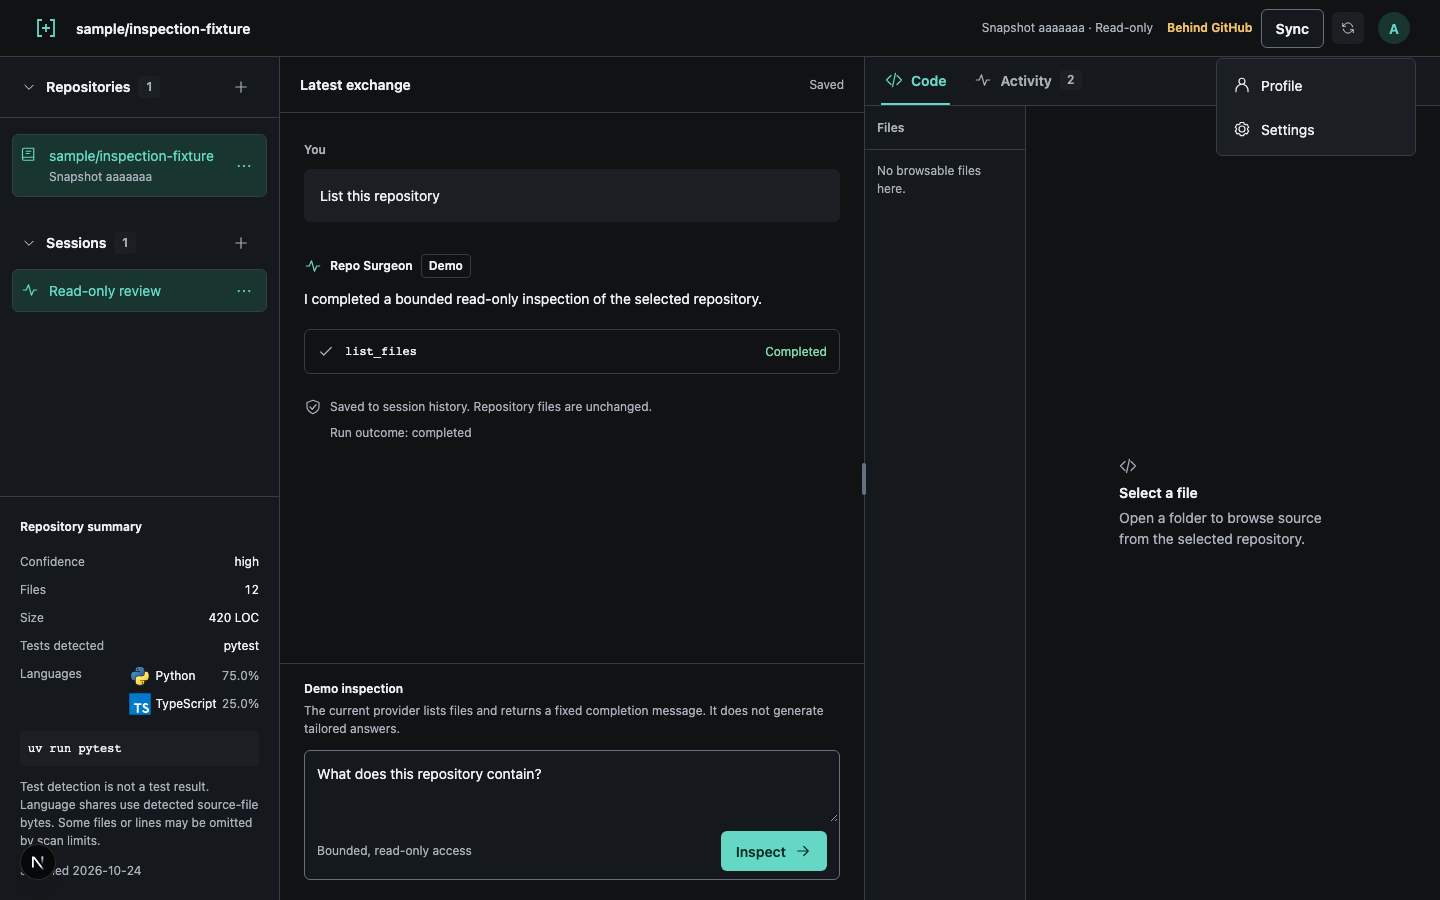
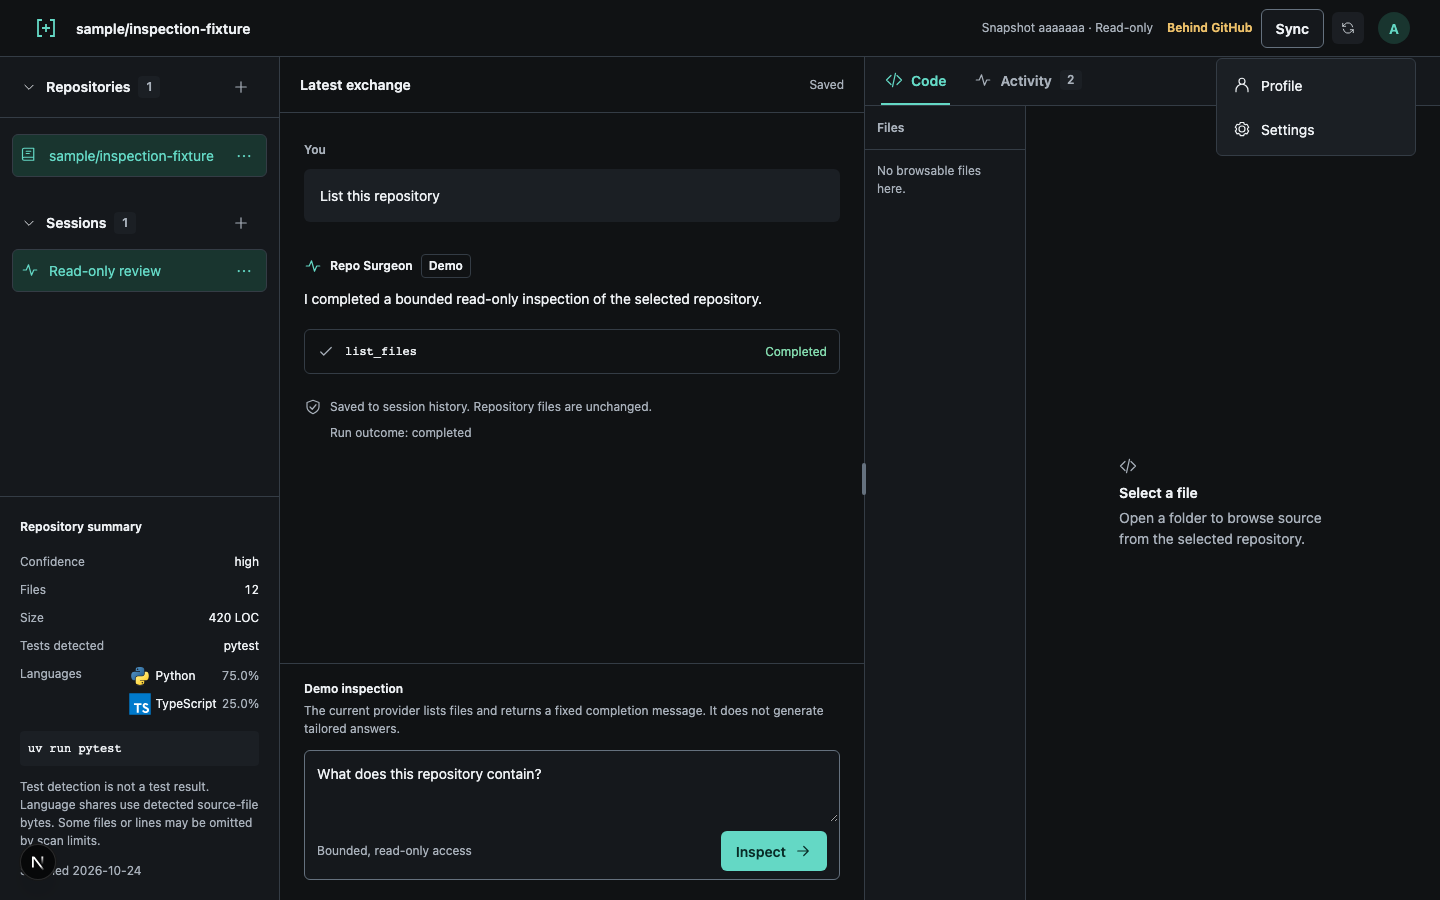
Simplify repository and session rows

Changed region(s): [[0.0, 0.1867, 0.1875, 0.3733]]

diff --git a/frontend/e2e/workspace.spec.ts b/frontend/e2e/workspace.spec.ts
@@ -608,15 +608,13 @@ test('public import selects its snapshot, recovers after failure and survives re
   await capture(page, testInfo, 'public-import-retry');
   await dialog.getByRole('button', { name: 'Import pallets/flask' }).click();
   await expect(dialog).toHaveCount(0);
-  await expect(
-    page.getByRole('button', { name: /pallets\/flask Snapshot aaaaaaa/ }),
-  ).toHaveAttribute('aria-pressed', 'true');
+  const importedRow = page.getByRole('button', { name: imported.name, exact: true });
+  await expect(importedRow).toHaveAttribute('aria-pressed', 'true');
+  await expect(page.getByText('Snapshot aaaaaaa · Read-only')).toBeVisible();
   await expect(page.getByRole('button', { name: 'Start read-only session' })).toBeEnabled();
   await capture(page, testInfo, 'public-import-selected');
   await page.reload();
-  await expect(
-    page.getByRole('button', { name: /pallets\/flask Snapshot aaaaaaa/ }),
-  ).toHaveAttribute('aria-pressed', 'true');
+  await expect(importedRow).toHaveAttribute('aria-pressed', 'true');
   await expect(page.getByRole('button', { name: 'Start read-only session' })).toBeEnabled();
   expect(calls).toBe(2);
 });
@@ -807,6 +805,7 @@ for (const width of [1440, 390]) {
     await page.setViewportSize({ width, height: 900 });
     await page.emulateMedia({ colorScheme: 'dark', reducedMotion: 'reduce' });
     await fixture(page);
+    const createdTitle = 'inspection-fixture read-only review of the imported source and tests-1';
     let saved = [{ ...session, title: 'sample/inspection-fixture read-only review' }];
     let renameFailure = true;
     await page.route('**/api/v1/sessions?*', (route) => route.fulfill({ json: saved }));
@@ -815,7 +814,7 @@ for (const width of [1440, 390]) {
       const created = {
         ...session,
         id: 'session-2',
-        title: 'inspection-fixture read-only review-1',
+        title: createdTitle,
       };
       saved = [created, ...saved];
       return route.fulfill({ status: 201, json: created });
@@ -862,8 +861,15 @@ for (const width of [1440, 390]) {
       page.getByRole('button', { name: 'sample/inspection-fixture read-only review', exact: true }),
     ).toHaveCount(0);
     await page.getByRole('button', { name: 'Start read-only session' }).click();
+    const createdRow = page.getByRole('button', { name: createdTitle, exact: true });
+    const label = createdRow.getByText(createdTitle, { exact: true });
+    await expect(createdRow).toHaveAttribute('title', createdTitle);
+    await expect(label).toHaveCSS('white-space', 'nowrap');
+    await expect(label).toHaveCSS('text-overflow', 'ellipsis');
+    expect(await label.evaluate((element) => element.scrollWidth > element.clientWidth)).toBe(true);
+    await capture(page, testInfo, `session-titles-${width}`);
     const actions = page.getByRole('button', {
-      name: 'Actions for session inspection-fixture read-only review-1',
+      name: `Actions for session ${createdTitle}`,
     });
     await actions.click();
     await expect(page.getByRole('menuitem', { name: 'Rename' })).toBeFocused();
@@ -1171,11 +1177,11 @@ for (const width of [1440, 390]) {
     if (width === 390)
       await page.getByRole('button', { name: 'Repositories', exact: true }).click();
     await expect(page.getByRole('button', { name: 'Repositories 1' })).toBeVisible();
-    await expect(page.getByRole('button', { name: /Snapshot bbbbbbb/ })).toHaveAttribute(
-      'aria-pressed',
-      'true',
-    );
-    await expect(page.getByRole('button', { name: /Snapshot aaaaaaa/ })).toHaveCount(0);
+    const repositoryRows = page.getByRole('group', { name: 'Repositories', exact: true });
+    await expect(
+      repositoryRows.getByRole('button', { name: repository.name, exact: true }),
+    ).toHaveAttribute('aria-pressed', 'true');
+    await expect(repositoryRows).not.toContainText('Snapshot');
     await expect(page.getByRole('button', { name: session.title, exact: true })).toHaveAttribute(
       'aria-pressed',
       'true',

diff --git a/frontend/src/app/workspace.tsx b/frontend/src/app/workspace.tsx
@@ -502,14 +502,7 @@ export default function Workspace({ user, csrfToken }: { user: SafeProfile; csrf
                   title={repository.name}
                 >
                   <Icon name="repo" />
-                  <span>
-                    {repository.name}
-                    {repository.github_commit ? (
-                      <small className="snapshot-revision">
-                        Snapshot {repository.github_commit.slice(0, 7)}
-                      </small>
-                    ) : null}
-                  </span>
+                  <span>{repository.name}</span>
                 </button>
                 <RowActions
                   name={repository.name}
@@ -612,7 +605,7 @@ export default function Workspace({ user, csrfToken }: { user: SafeProfile; csrf
                 type="button"
               >
                 <Icon name="activity" />
-                <span>{sessionDisplayName(item.title)}</span>
+                <span className="session-title">{sessionDisplayName(item.title)}</span>
               </button>
               <RowActions
                 name={`session ${sessionDisplayName(item.title)}`}

diff --git a/frontend/src/app/globals.css b/frontend/src/app/globals.css
@@ -535,6 +535,11 @@ code {
   min-width: 0;
   overflow-wrap: anywhere;
 }
+.session-title {
+  overflow: hidden;
+  text-overflow: ellipsis;
+  white-space: nowrap;
+}
 .selection-row .icon {
   margin-top: 1px;
 }
@@ -1386,14 +1391,6 @@ code {
 }
 .finding a {
   color: var(--accent);
-}
-
-.snapshot-revision {
-  display: block;
-  margin-top: 2px;
-  color: var(--muted);
-  font-size: 12px;
-  font-weight: 400;
 }
 
 .repo-summary {

diff --git a/DESIGN.md b/DESIGN.md
@@ -131,7 +131,7 @@ Controls and messages use the control radius; small badges use the badge radius.
 
 - **Header and account menu:** The workspace brand icon returns to `/landing`. Profile and Settings use the shared header with a Workspace return link. The landing page's own brand links use `#top`. Hover or focus on the circular GitHub avatar reveals the username. Click opens Profile and Settings links with icons. The menu supports arrows, Home/End, Escape, Tab exit and outside dismissal. The trigger is 44px with a 32px image and an initial fallback.
 - **Buttons:** Teal primary and outlined neutral secondary actions; stable hover treatments, explicit disabled states, and 2px accent focus outlines with 3px offset. Principal phone actions are at least 44px high.
-- **Selection rows:** Native buttons use `aria-pressed`, teal text and a selected surface. Full names remain available through wrapping and titles.
+- **Selection rows:** Native buttons use `aria-pressed`, teal text and a selected surface. Repository rows show the name, with the snapshot revision in the toolbar. Session titles stay on one line and use an ellipsis when they overflow. The full title is available on hover and as the button's accessible name.
 - **Composer:** Textarea focus outlines the shared input container, including its footer, without a nested textarea ring. Inspect keeps its own keyboard focus outline. A visible demo-provider disclosure precedes the bordered textarea. Inspect is disabled without a session, during submission and for instructions shorter than three trimmed characters. Input is capped at 8000 characters.
 - **Events:** Ordered identifiers, tool or event names, UTC time, and separate outcome and persistence labels. Failure uses danger text and a danger surface, including when the event was saved successfully.
 - **Drawers:** Native modal dialogs provide protected focus, Tab wrapping, Escape dismissal and trigger-focus restoration. Returning to desktop closes the drawer. They reuse pane content rather than displaying duplicate controls.
